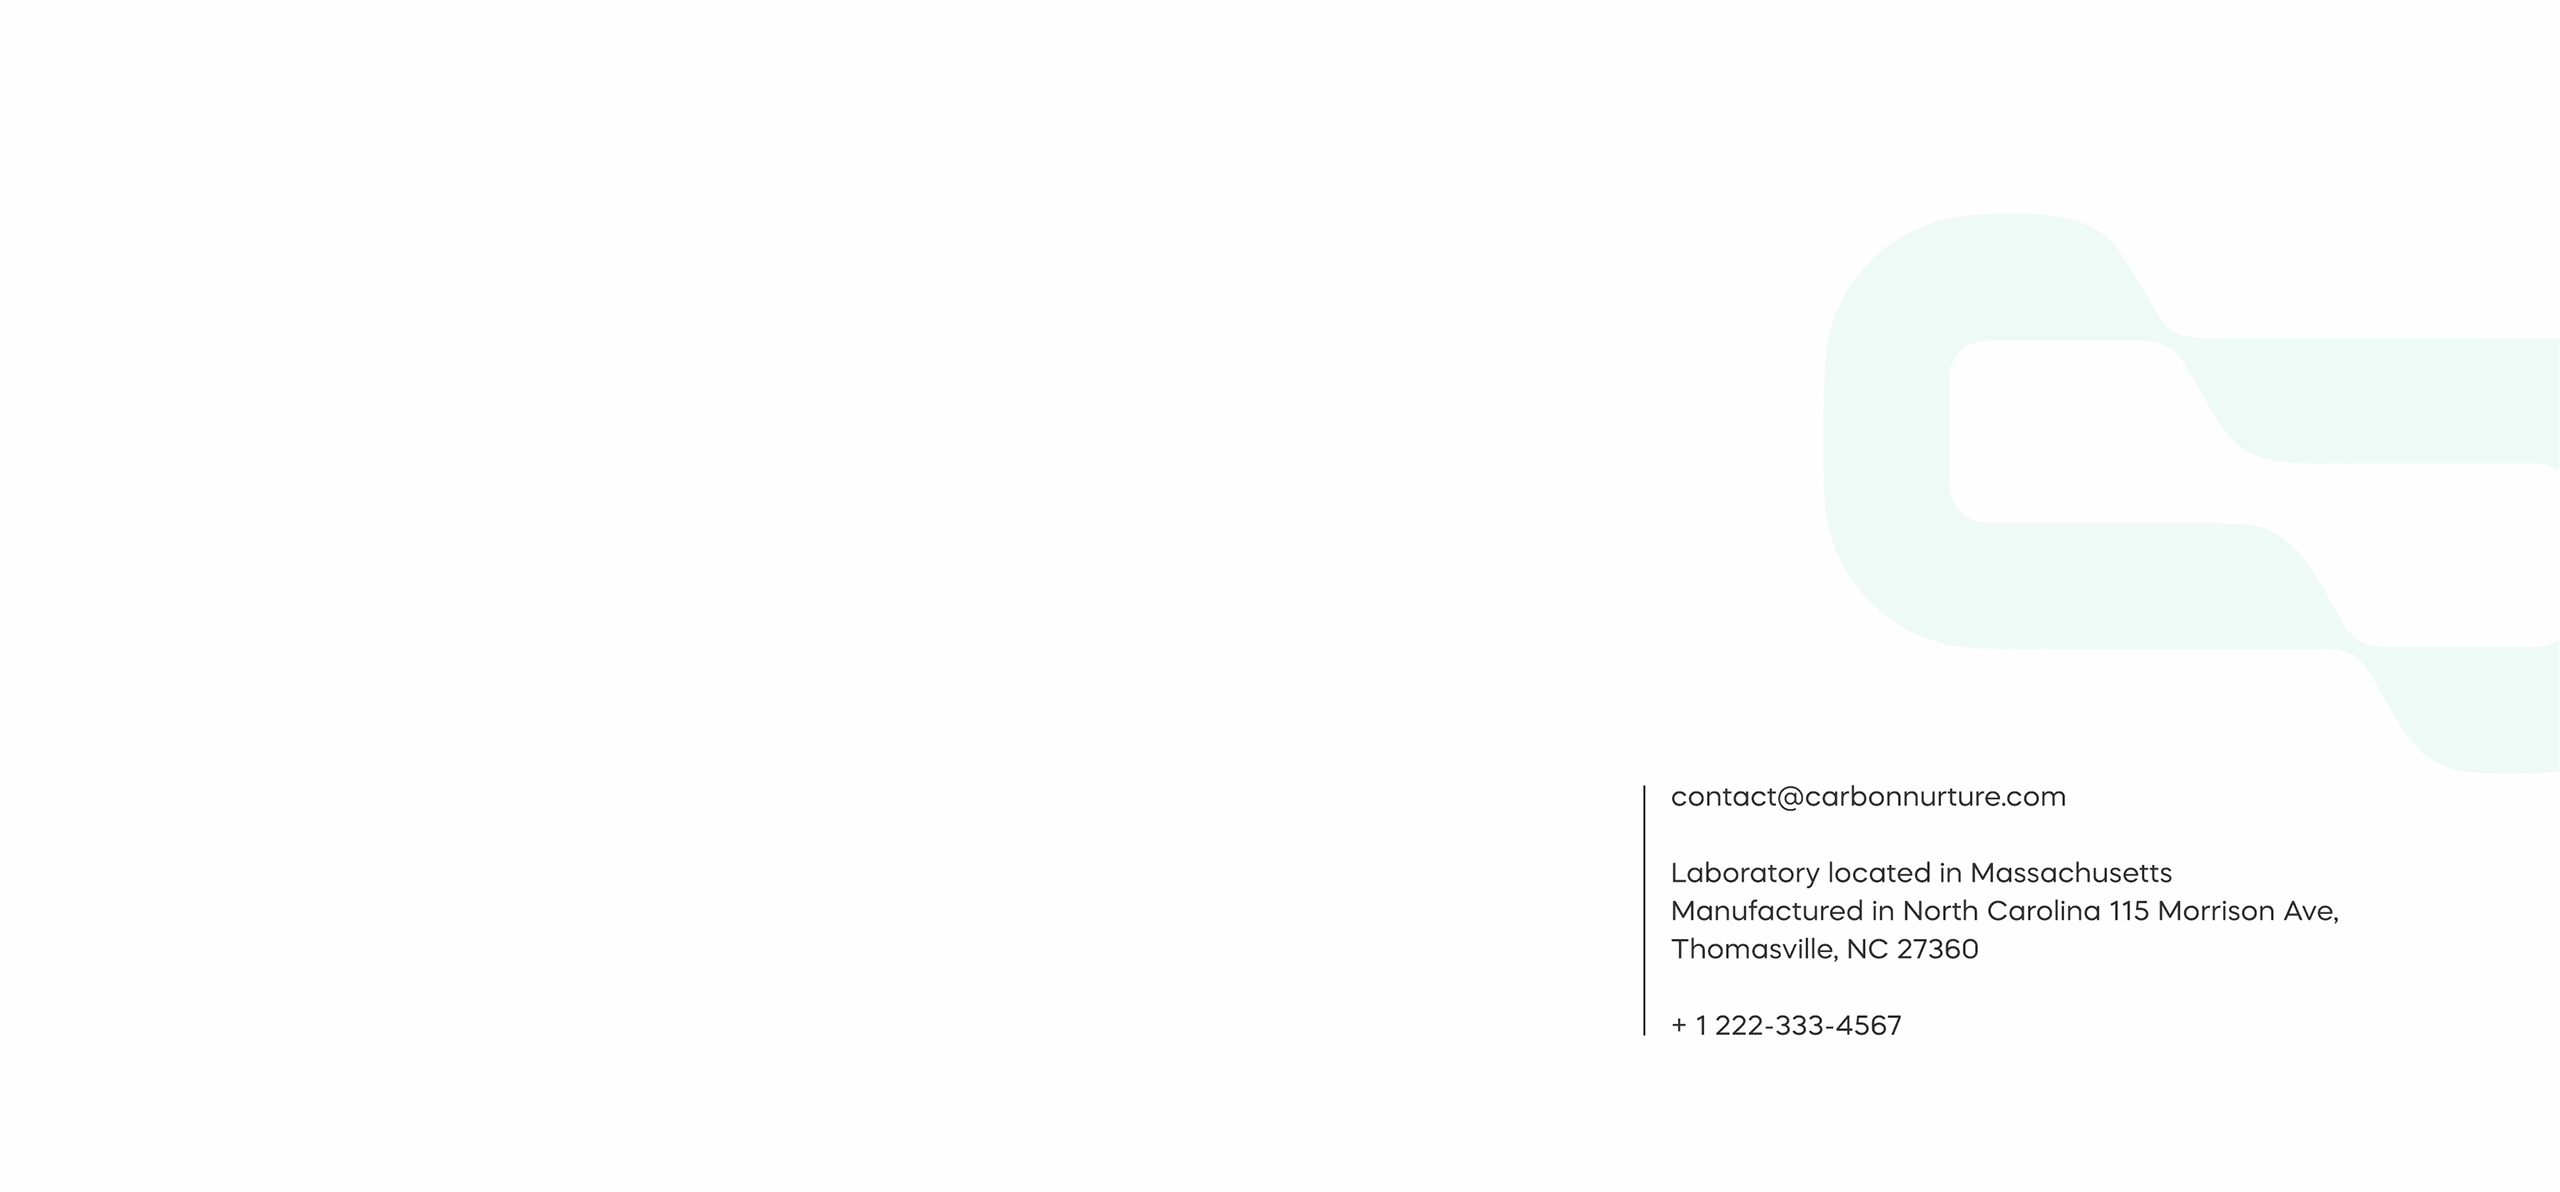
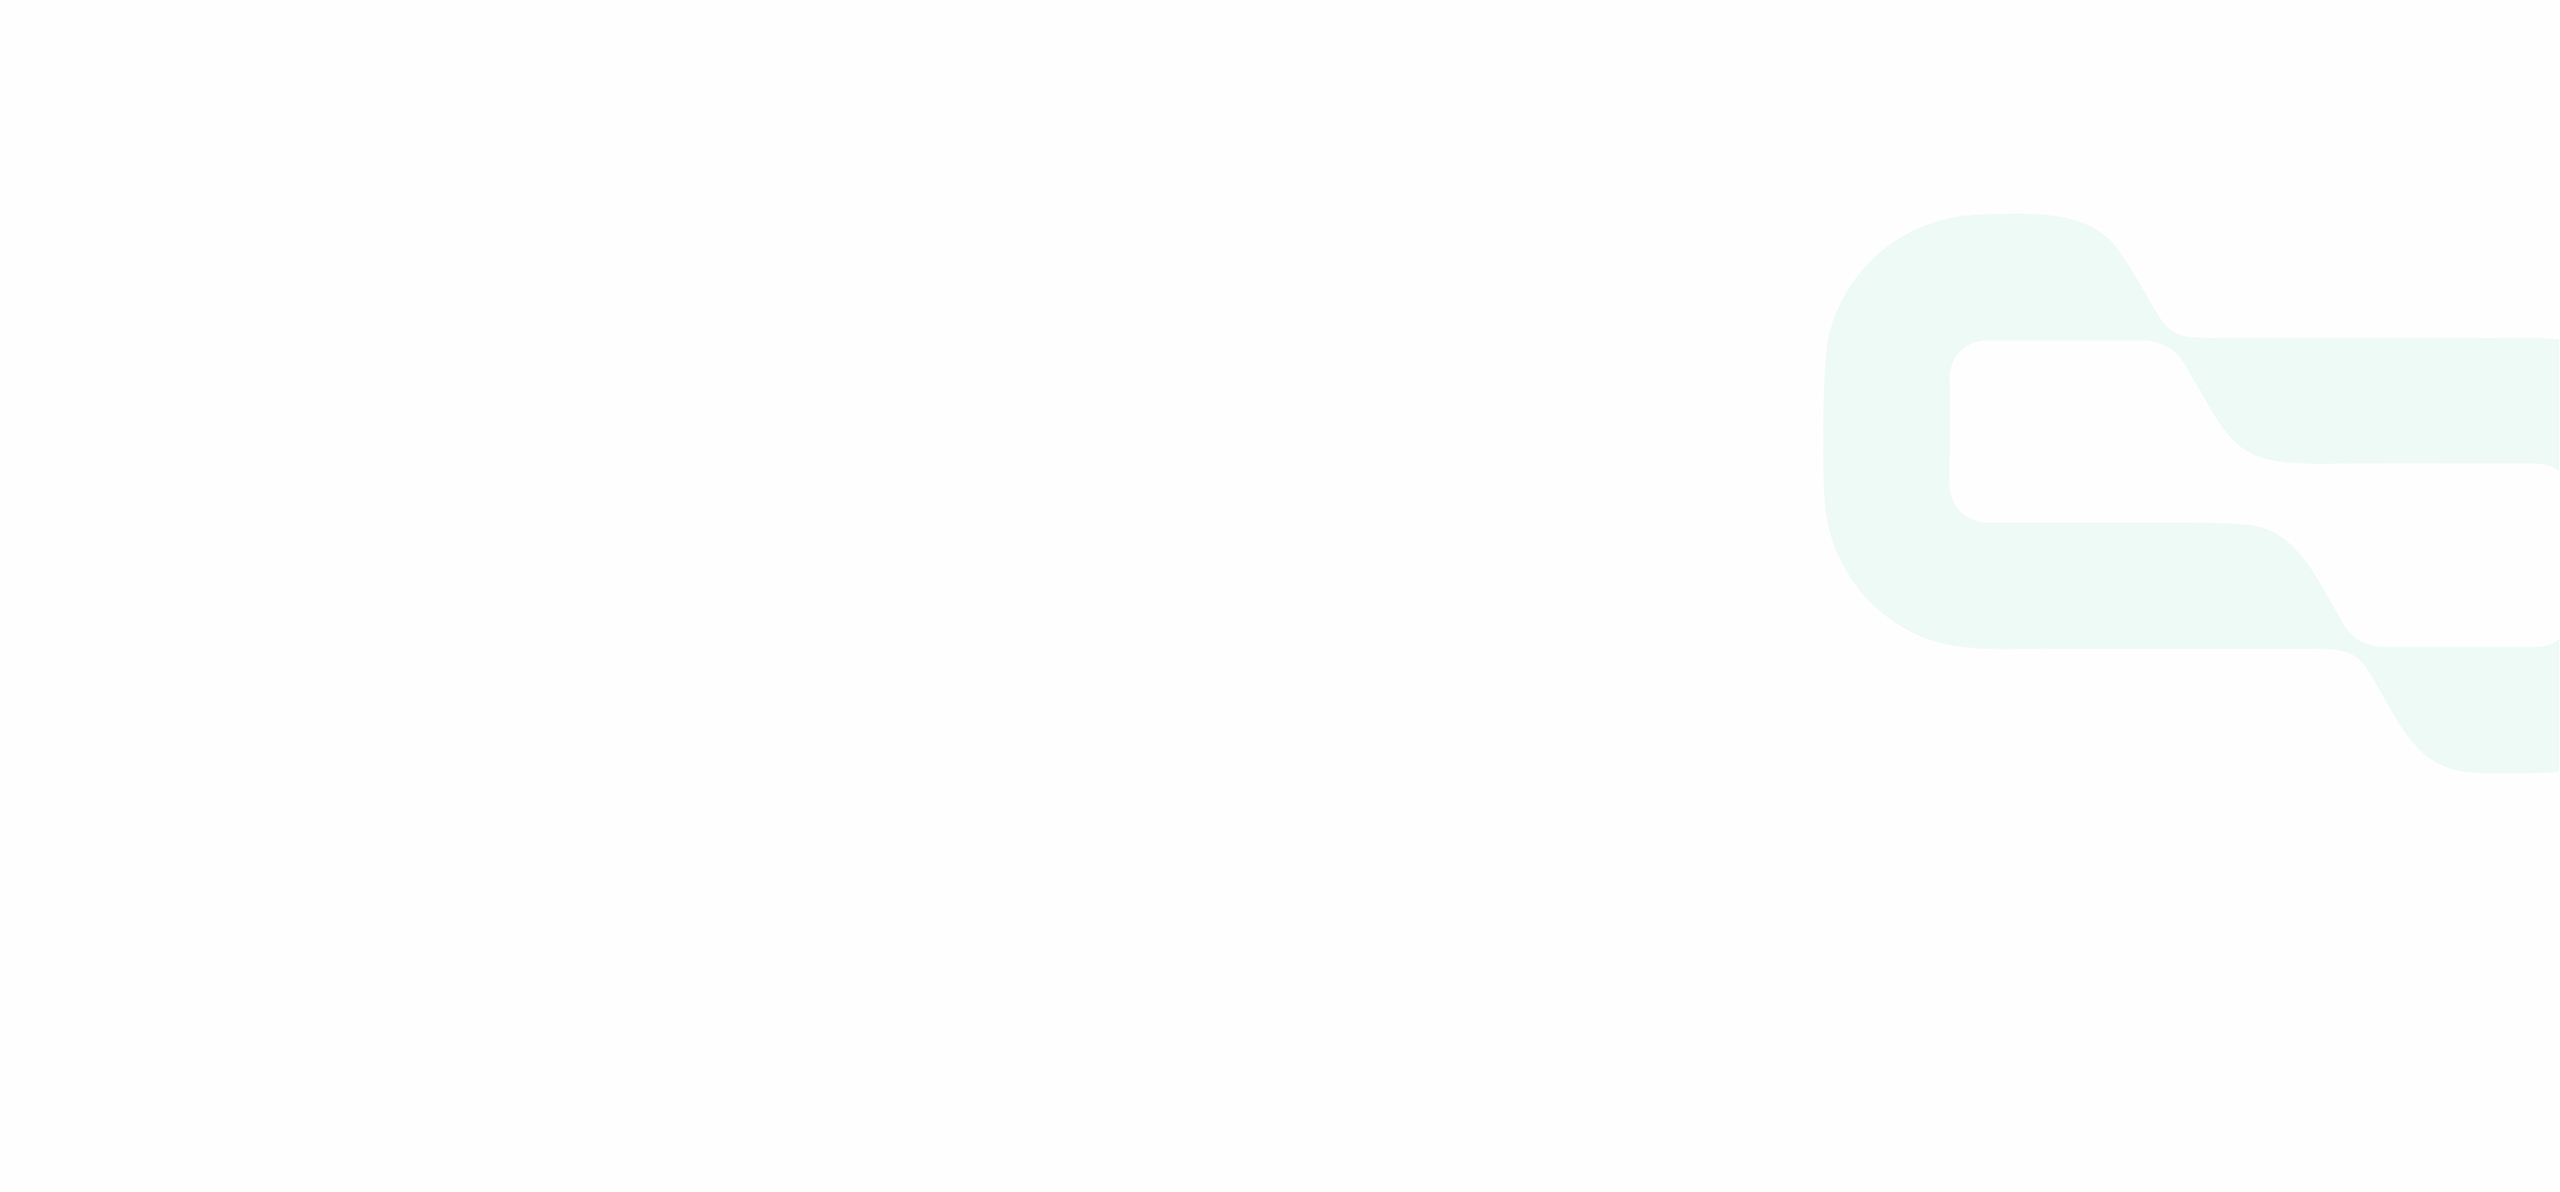
fix contact form

Changed region(s): [[0.6562, 0.7139, 0.9062, 0.807], [0.6562, 0.6518, 0.8125, 0.6829], [0.6562, 0.8381, 0.75, 0.8691]]

diff --git a/components/ContactForm.vue b/components/ContactForm.vue
@@ -62,6 +62,16 @@
     </div>
   </section>
 </div>
+<div class="contact-info">
+    <p>contact@carbonnurture.com</p>
+    <p>
+      Laboratory located in Massachusetts<br>
+      Manufactured in North Carolina 115 Morrison Ave, Thomasville, NC 27360
+    </p>
+    <p>
+      <a href="tel:+12223334567" class="cell-contact">+1 222-333-4567</a>
+    </p>
+  </div>
 </template>
 
 
@@ -121,6 +131,18 @@ export default {
 </script>
 
 <style scoped>
+.cell-contact{
+  text-decoration: none;
+  color: black;
+}
+.contact-info {
+  text-align: center;
+  font-size: 16px;
+  font-weight: 500;
+  line-height: 1.4;
+  margin: 20px;
+ 
+}
 /* Контейнер секции */
 #form {
   position: relative;
@@ -158,18 +180,8 @@ export default {
   background-color: #19B97C;
   border-color: #19B97C;
 }
-
-/* Адаптивность */
-@media (max-width: 768px) {
-  .form-overlay {
-    width: 80%;
-    left: 50%;
-    transform: translate(-50%, -50%); /* Центрируем форму на мобильных */
-  }
-}
-
 .container-fluid {
-  max-width: 1200px;
+  max-width: 1065px;
   margin: 0 auto; /* Центрирует контейнер */
 }
 
@@ -181,6 +193,51 @@ export default {
   font-size: 2rem; /* Размер шрифта */
   font-weight: 500;
   z-index: 10; /* Чтобы было поверх изображения */
+}
+
+/* Адаптивность */
+@media (max-width: 768px) {
+  .form-overlay {
+    width: 80%;
+    left: 50%;
+    transform: translate(-50%, -50%); /* Центрируем форму на мобильных */
+  }
+}
+
+@media (max-width: 963px) {
+.banner-img {
+  display: none;
+}
+.form-overlay {
+    position: relative; /* Отмена абсолютного позиционирования */
+    top: auto;
+    left: auto;
+    transform: none;
+    margin: 20px auto; /* Центрирование по горизонтали с отступом сверху/снизу */
+  }
+  .contact-title {
+    position: relative; /* Сбрасываем абсолютное позиционирование */
+    top: auto;
+    left: auto;
+    transform: none;
+    margin: 20px 0; /* Отступ сверху и снизу */
+    text-align: center;
+  }
+
+
+
+
+  /* Делает ссылку на телефон визуально понятнее */
+  .contact-info a {
+    color: #107a1d;
+    text-decoration: none;
+  }
+  .contact-info a:hover {
+    text-decoration: underline;
+  }
+
+
+
 }
 
 
